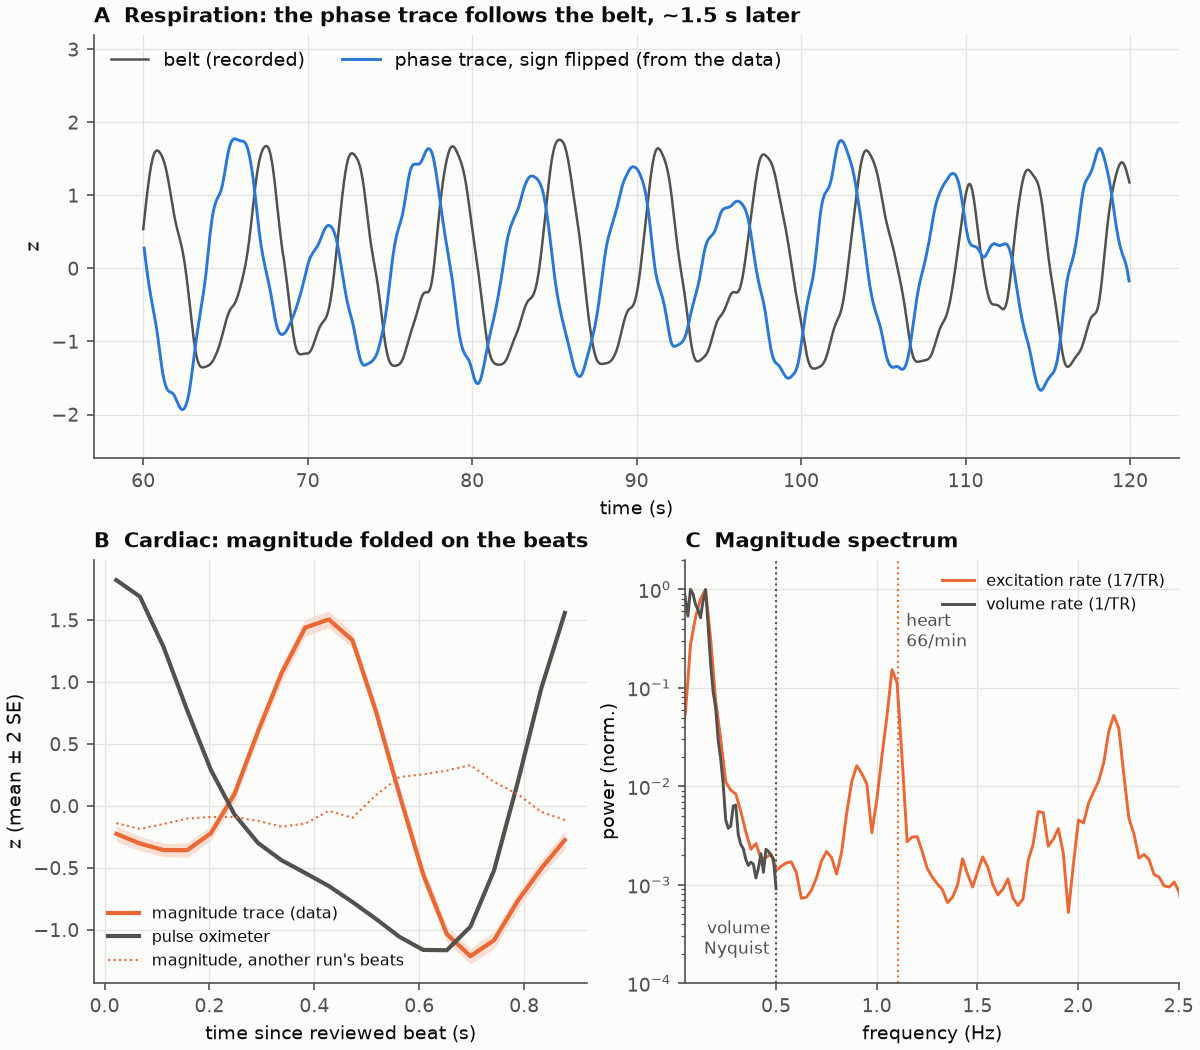
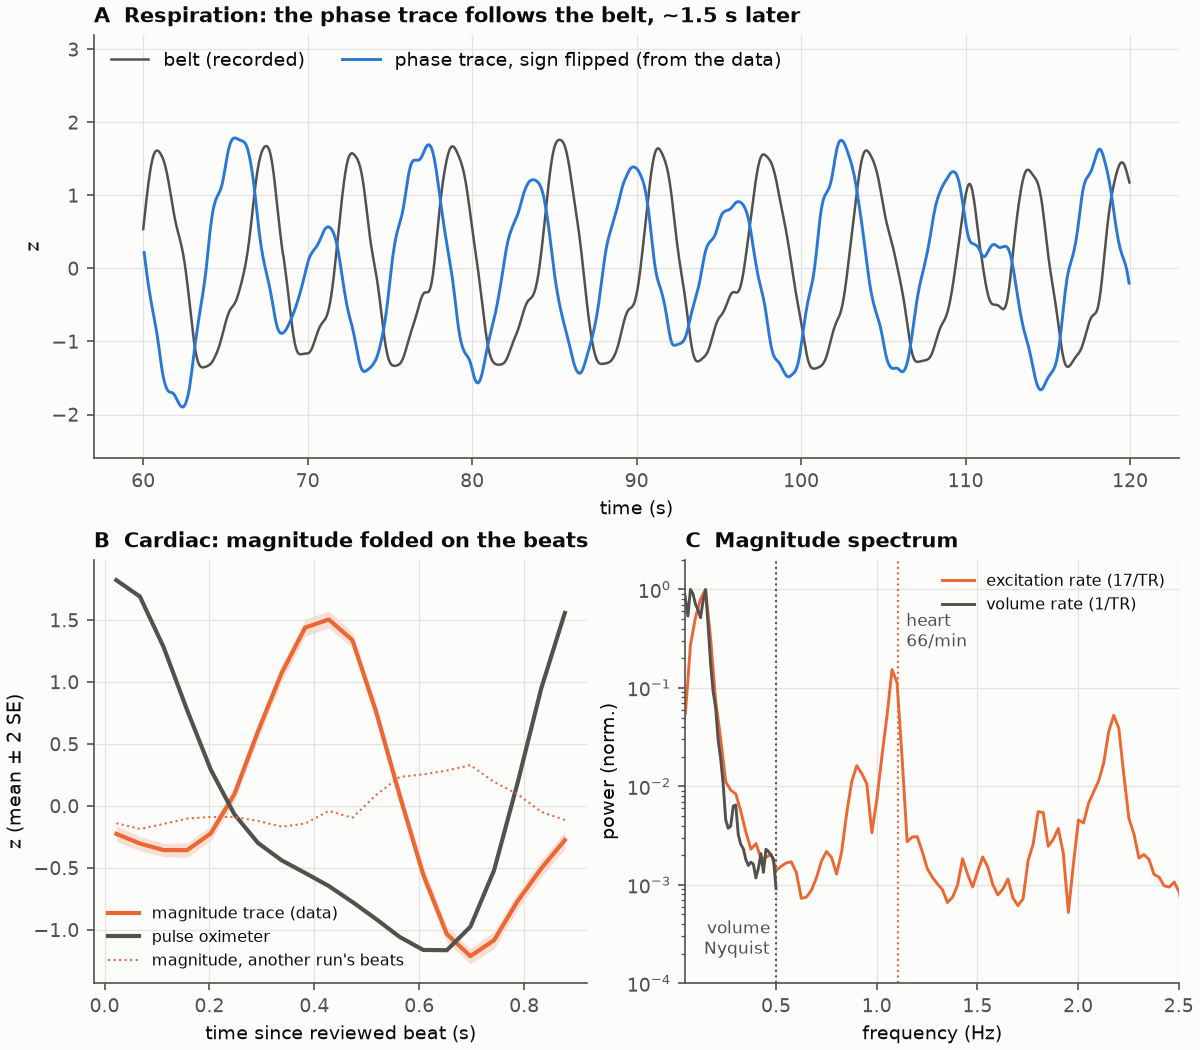
docs/physio: numbers after the running-mean phase fix; belt clipping as the reason for the negative runs
Claude-Session: https://claude.ai/code/session_01N3icDL3L66ncVe9EGddxEj

diff --git a/docs/physio.md b/docs/physio.md
@@ -13,7 +13,8 @@ enough for the heartbeat that the 1 Hz volume rate aliases (figure 1C).
 
 1. **Excitation-rate traces.** For each excitation, the mean over brain voxels of the
    fractional magnitude change (each voxel's mean and drift removed) and of the phase
-   change (each voxel against its own temporal mean; no spatial unwrap). The magnitude
+   change (each voxel against its own 60 s running-mean phasor, so slow drift and sudden
+   global phase steps do not drop voxels; no spatial unwrap). The magnitude
    trace carries cardiac pulsation, the phase trace carries respiration (breathing
    changes the magnetic field in the head).
 2. **Rates and cycle phases.** Heart rate is tracked in sliding 20 s windows, never
@@ -110,9 +111,9 @@ the 85 runs whose belt recorded.*
 
 *Figure 3. (A, B) RVT × RRF from the field gradients against the belt's, in a rest run near
 the median and through deliberate breath-holds. (C) Correlation with the belt's RVT over 85
-runs: the mean phase gives timing but little depth (median r 0.26). The phase-encode (y)
+runs: the mean phase gives timing but little depth (median r 0.27). The phase-encode (y)
 gradient alone does better (0.55). The first principal component of all three gradients is
-best (0.72; above 0.5 in 88 % of runs). (D) Breathing loads on the up–down and front–back
+best (0.73; above 0.5 in 89 % of runs). (D) Breathing loads on the up–down and front–back
 gradients and little on left–right: the field from the chest falls off toward the head
 along every axis, not only the phase-encode one.*
 
@@ -138,9 +139,12 @@ slices, with voxel maps correlated at 0.94–0.98.
 - **The respiratory trace lags the belt by ~1.5 s.** The clocks agree to the tick, so this
   is the belt (abdominal) against the field (lung volume), not a sync error. RETROICOR
   absorbs a constant lag; RVT carries 0–4 s lags.
-- **Data-derived RVT is not the belt's RVT** (median r 0.72 after RRF convolution). It
-  tracks breath depth, but the measure is different. Agreement is weakest at rest, where
-  depth varies least (median 0.56 over 9 rest runs, two of them negative).
+- **Data-derived RVT is not the belt's RVT** (median r 0.73 after RRF convolution). It
+  tracks breath depth, but the measure is different. The belt is also an imperfect
+  reference: set too tight, it clips at both ends of its range and stops measuring depth.
+  Agreement falls as clipping rises (median r 0.74 over 59 runs with under 5 % of breaths
+  clipped, 0.54 over 8 runs with over half clipped); the two negative runs clip on 59 % and
+  71 % of breaths, and so do most rest runs here.
 - **Raw-space QC maps** treat voxels as scanner locations, so a moving head also lights the
   brain's edge.
 
